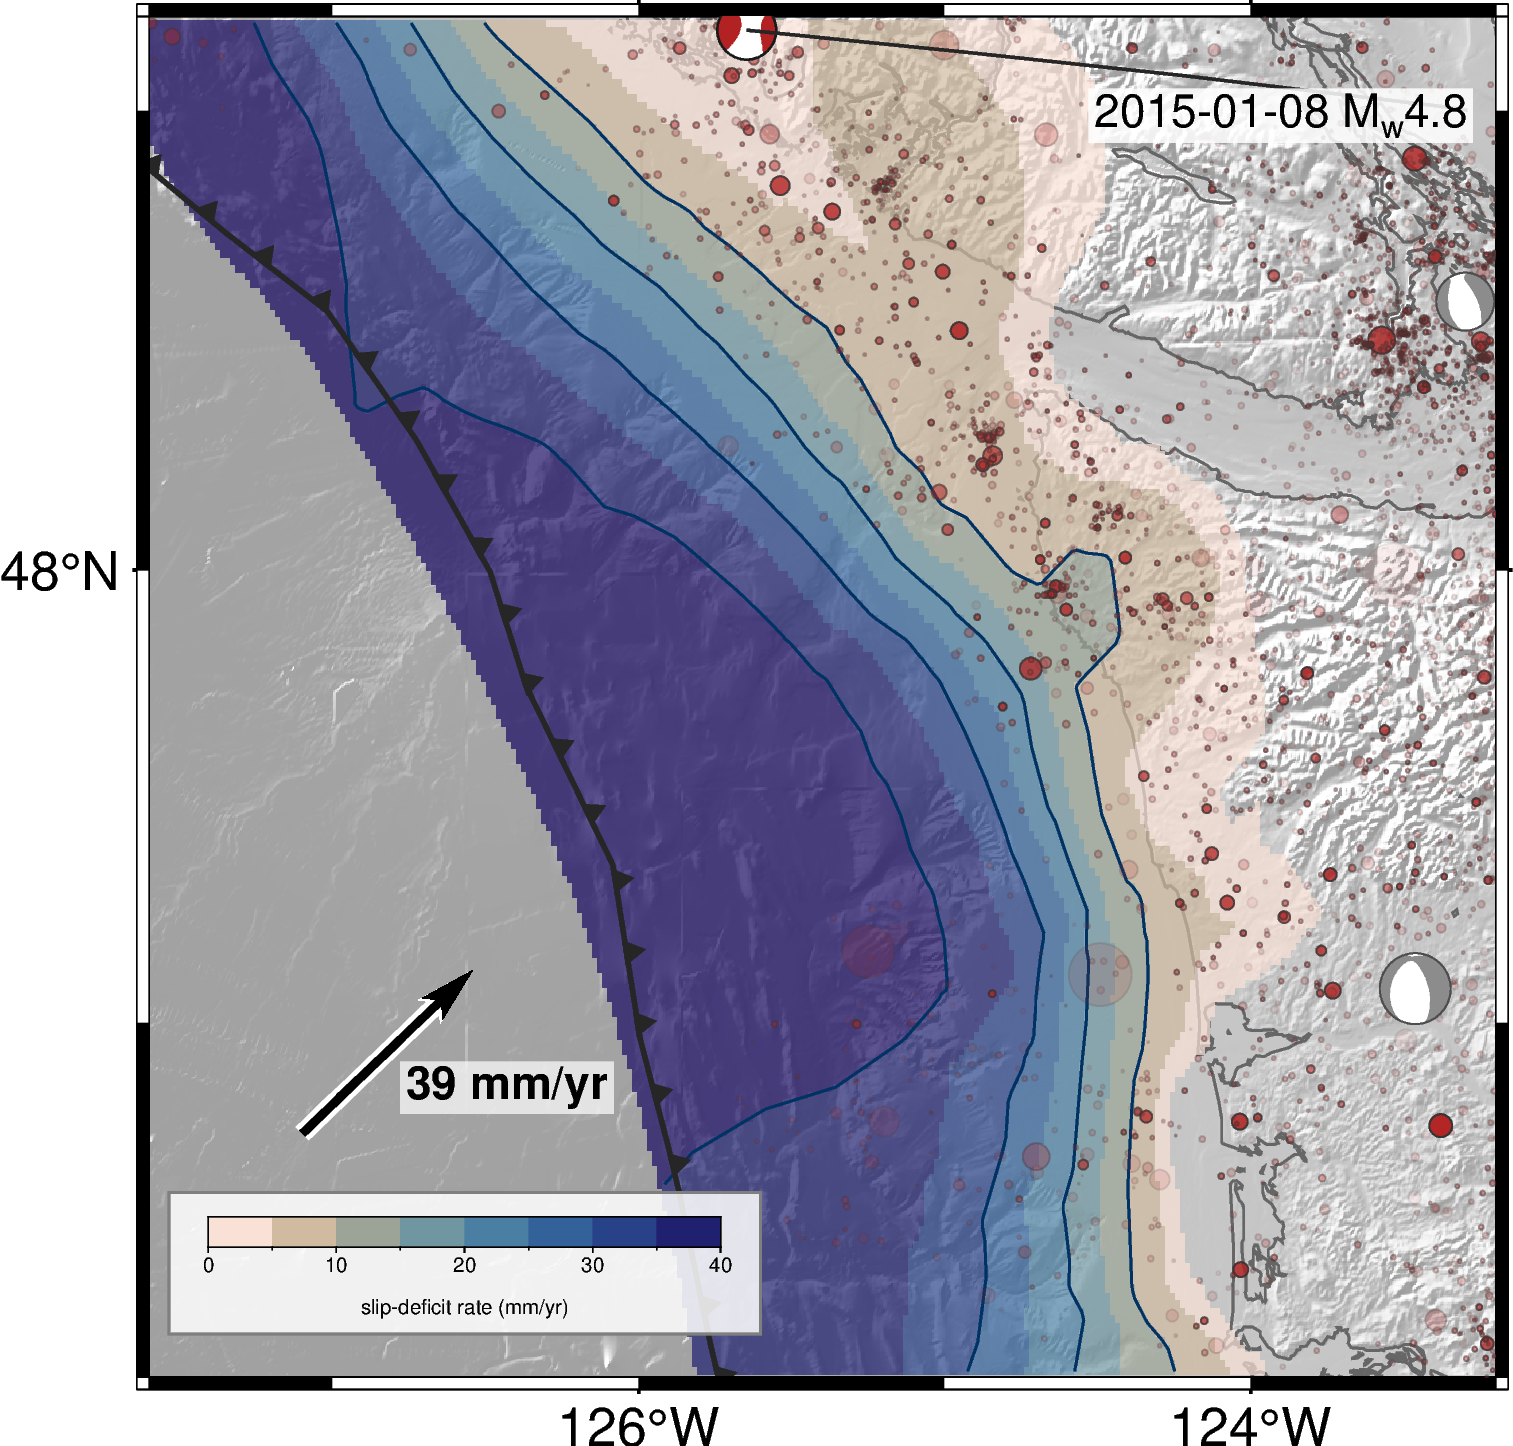
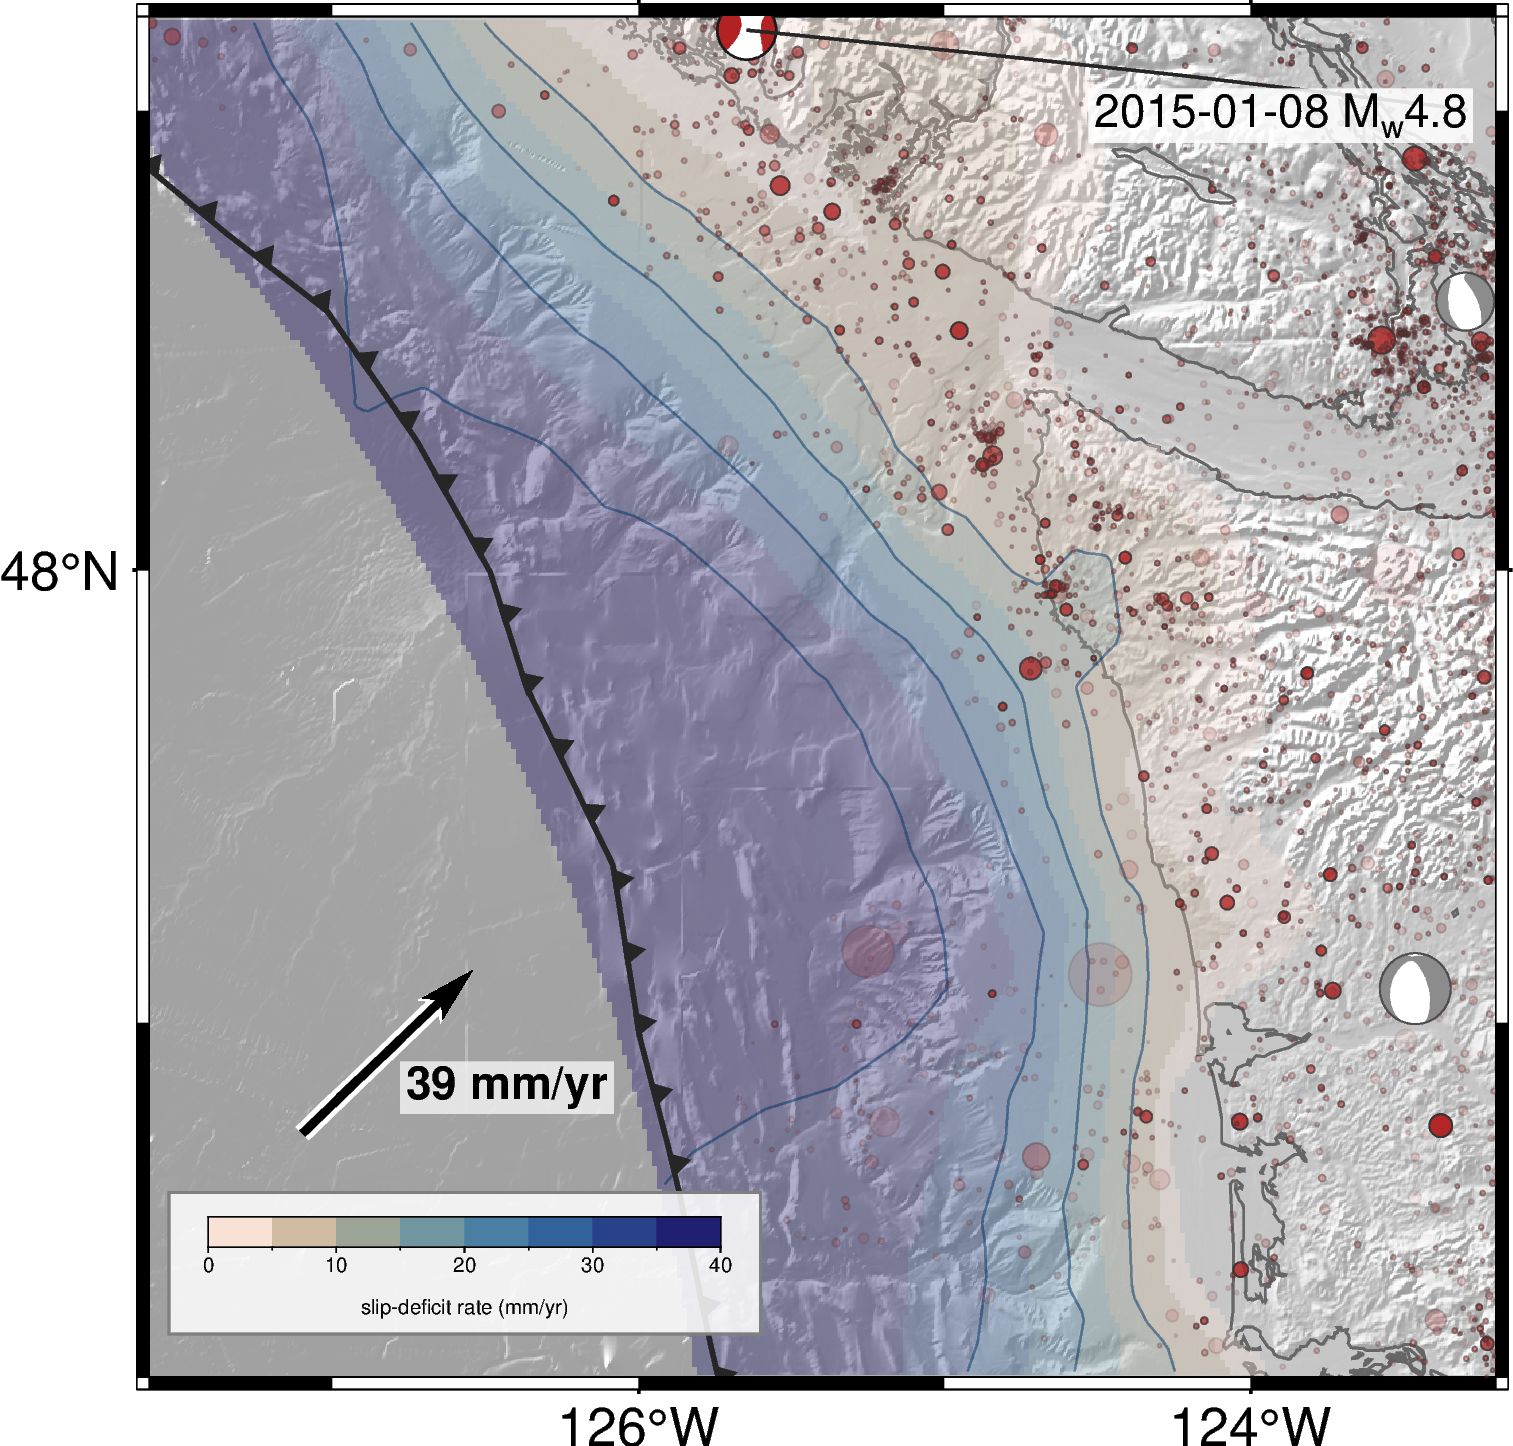
Fig 6b (WA margin): slip deficit muted under the catalog layer (--coupling-transparency 65)

diff --git a/workflow/06_analysis/phase5_pygmt_map.py b/workflow/06_analysis/phase5_pygmt_map.py
@@ -163,6 +163,9 @@ def main(argv=None):
                    choices=["auto", "none"] + list(mc.COUPLING),
                    help="slip-deficit model drawn under the events (auto: Pollitz 2025 "
                         "on the WA/OR forearc zooms, none elsewhere)")
+    p.add_argument("--coupling-transparency", type=float, default=30,
+                   help="transparency (%%) of the slip-deficit grid; higher keeps it a "
+                        "muted background under the events")
     p.add_argument("--layer", choices=["catalog", "context"], default="catalog",
                    help="full margin only: 'catalog' = the catalog map (plate boundaries "
                         "only); 'context' = faint seismicity + slip deficit, moment tensors "
@@ -259,8 +262,10 @@ def main(argv=None):
         sd, sd_cite = mc.load_slip_deficit(coupling, region)
         pygmt.makecpt(cmap="lapaz", series=[0, 40, 5], reverse=True)
         fig.grdimage(sd, region=region, projection=proj, cmap=True, nan_transparent=True,
-                     transparency=30)
-        fig.grdcontour(sd, levels=10, pen="0.3p,0/50/100", region=region, projection=proj)
+                     transparency=args.coupling_transparency)
+        muted = args.coupling_transparency > 30
+        fig.grdcontour(sd, levels=10, pen="0.25p,0/50/100" if muted else "0.3p,0/50/100",
+                       region=region, projection=proj, transparency=50 if muted else 0)
         print(f"slip deficit: {sd_cite}")
     if not args.no_context:
         mc.draw_boundaries(fig, region, pen_scale=0.8 if args.region == "full" else 1.0)

diff --git a/workflow/06_analysis/catalog_v4_report.py b/workflow/06_analysis/catalog_v4_report.py
@@ -54,7 +54,8 @@ MAPS = [  # (report name, phase5 args) -- the presets of paper/export_figures.py
     ("fig05a_catalog_map_v4.png", ["--region", "full"]),
     ("fig05b_context_map_v4.png", ["--region", "full", "--layer", "context"]),
     ("fig06a_endeavour_v4.png", ["--region", "endeavour", "--gmrt", "med"]),
-    ("fig06b_wa_margin_v4.png", ["--region", "wa_margin", "--gmrt", "med"]),
+    ("fig06b_wa_margin_v4.png", ["--region", "wa_margin", "--gmrt", "med",
+                                 "--coupling-transparency", "65"]),
     ("fig06c_or_margin_v4.png", ["--region", "or_margin", "--gmrt", "med"]),
     ("fig06d_blanco_v4.png", ["--region", "blanco", "--gmrt", "med"]),
     ("fig06e_gorda_v4.png", ["--region", "gorda", "--gmrt", "med"]),

diff --git a/paper/export_figures.py b/paper/export_figures.py
@@ -71,7 +71,8 @@ SCRIPT_FIGURES = [
      "cascadia_ML_map_endeavour.png", _MAG),
     ("fig06e_gorda.png", _PHASE5, ["--region", "gorda", "--gmrt", "med"],
      "cascadia_ML_map_gorda.png", _MAG),
-    ("fig06b_wa_margin.png", _PHASE5, ["--region", "wa_margin", "--gmrt", "med"],
+    ("fig06b_wa_margin.png", _PHASE5, ["--region", "wa_margin", "--gmrt", "med",
+                                                 "--coupling-transparency", "65"],
      "cascadia_ML_map_wa_margin.png", _MAG),
     ("fig06c_or_margin.png", _PHASE5, ["--region", "or_margin", "--gmrt", "med"],
      "cascadia_ML_map_or_margin.png", _MAG),
